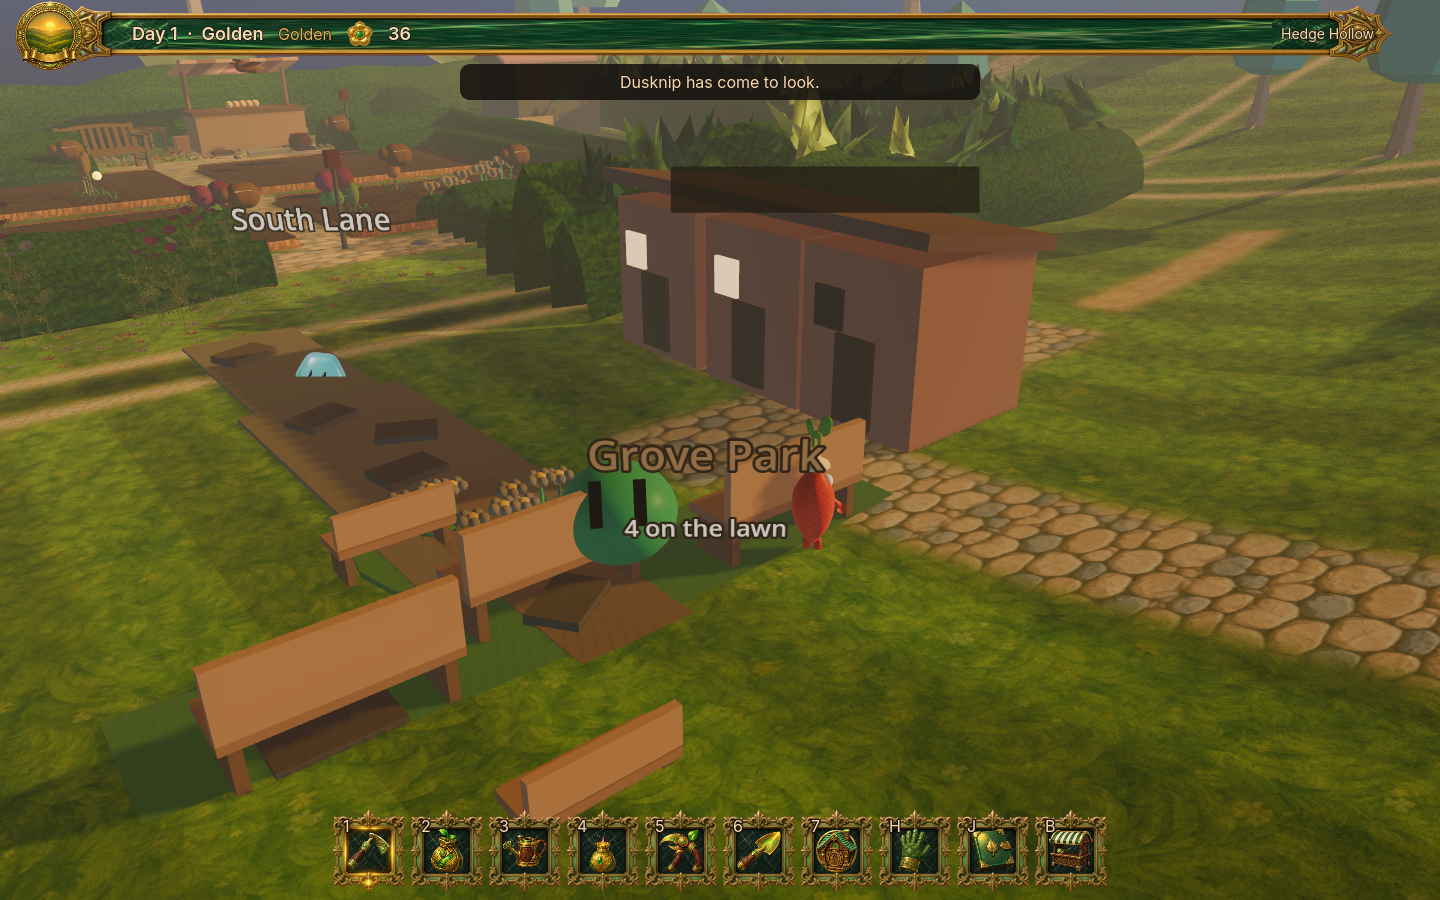
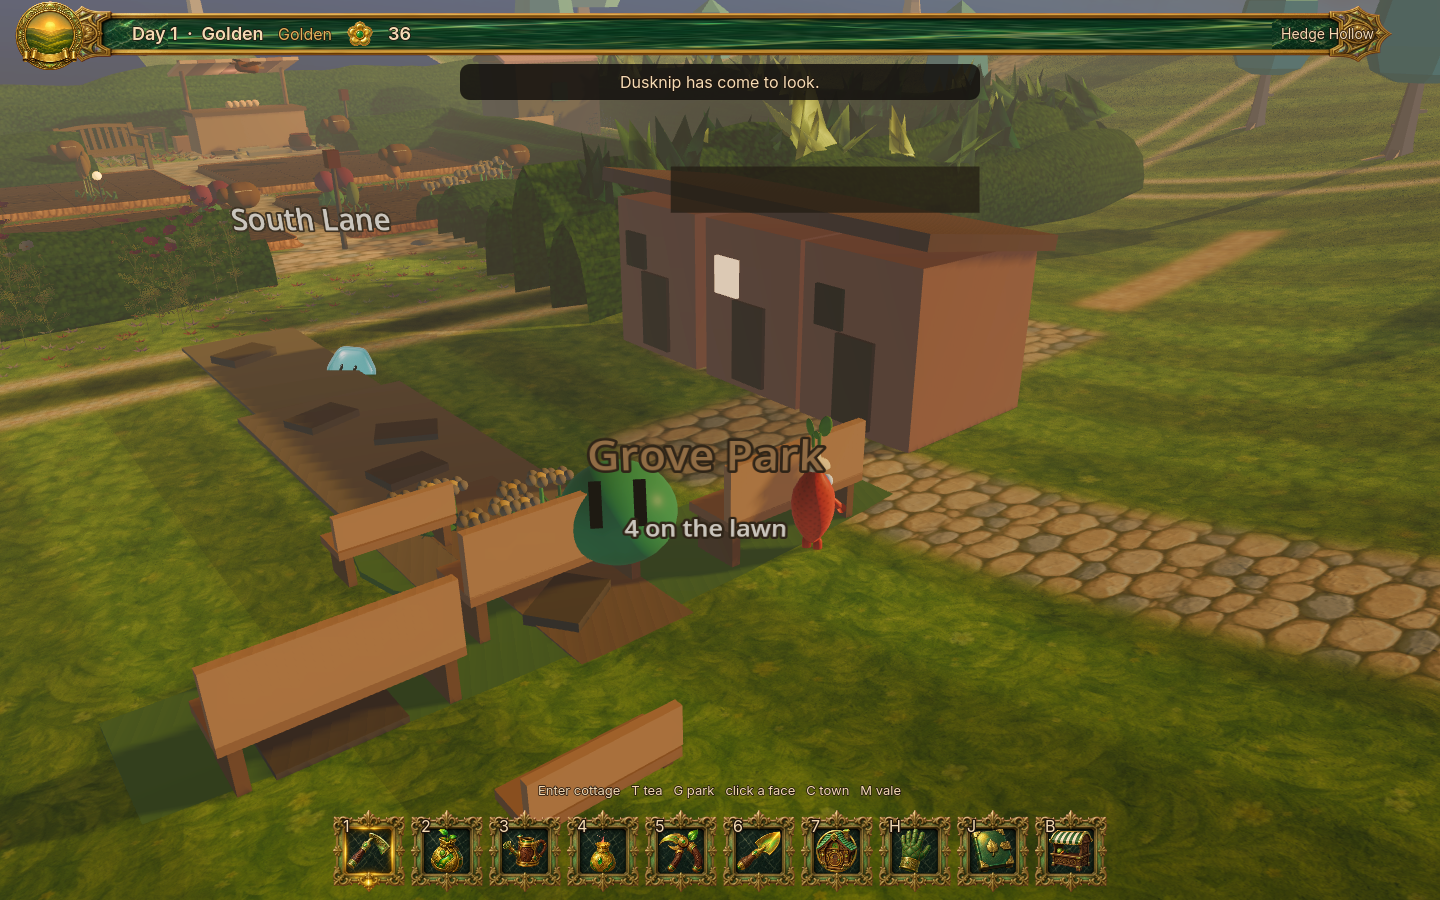
Draw a Bellhelp to the lawn when the household arrives.
Finishing the walk from the cottage calls an existing Bellhelp onto the grass, hungry, with both eyes. The town shot quits if that jelly stays behind.

diff --git a/docs/CURRENT_STATE.md b/docs/CURRENT_STATE.md
@@ -24,7 +24,7 @@ Pass 2 from `petal/08-integration` is in this tree: inspect snack, pouch feed, h
 Approved jelly cut-outs (`assets/art/images/PETAL-08-101/`) are the resting card. Hunger, a grab, a poke, or a throw shows a shaded gel icon: one body, two black vertical eyes, a small highlight. The eyes stay unshaded so the sun does not grey them out. The icon tips toward the camera.
 Sign-off CAM_06 still stages its own `SignoffJelly` card.
 Grove Park, once Nessa files it, is a lawn with benches and one worn walk from the lawn to the hedge gate. Lumen and Bram walk through that gate to the grass and stay there. `grove_park.active` stays false.
-When the road rumour is filed, six cottages stand on South Lane between the gate and the lawn. Occupied houses light a window. If the camera is near the gate, the first household (a tomato folk, surname from the lane record) stands at that door. Enter, while the camera is near that cottage, steps into the kitchen. A cup on the table holds hedge tea when the kettle has a pot or a crate of it. T drinks one serving and the cup empties when that was the last. G, once Grove Park is filed, walks that household from the cottage door, through the gate, onto the lawn. G again walks them home through the gate. The lawn spot survives save and load. While they stand on the grass, the Grove Park count includes them and their cottage window goes dark. The window lights again when they are at the door. A hungry Bellhelp can stand on that same lawn with both black eyes still showing. The same name is used in the kitchen, on the path, and on the place page. Esc steps back out. The place page says where they are: kitchen, walking, lawn, or cottage door. After a sip it also keeps “drank the hedge tea,” including across save and load. The bottom hint reads Enter cottage, T tea, G park. Clicking the household says the tea line. Farther houses stay counts. `grove_park.active` stays false.
+When the road rumour is filed, six cottages stand on South Lane between the gate and the lawn. Occupied houses light a window. If the camera is near the gate, the first household (a tomato folk, surname from the lane record) stands at that door. Enter, while the camera is near that cottage, steps into the kitchen. A cup on the table holds hedge tea when the kettle has a pot or a crate of it. T drinks one serving and the cup empties when that was the last. G, once Grove Park is filed, walks that household from the cottage door, through the gate, onto the lawn. G again walks them home through the gate. The lawn spot survives save and load. While they stand on the grass, the Grove Park count includes them and their cottage window goes dark. The window lights again when they are at the door. Arriving on the lawn draws an existing Bellhelp to the grass, hungry, with both black eyes still showing. The same name is used in the kitchen, on the path, and on the place page. Esc steps back out. The place page says where they are: kitchen, walking, lawn, or cottage door. After a sip it also keeps “drank the hedge tea,” including across save and load. The bottom hint reads Enter cottage, T tea, G park. Clicking the household says the tea line. Farther houses stay counts. `grove_park.active` stays false.
 
 ## ACTIVE AGENTS
 
@@ -48,7 +48,7 @@ Executive on this branch. No other agent is writing this tree in this run.
 
 - `./tools/petal_qa.sh` → `PETAL_QA_SCRIPTS_OK` after the cottage loop.
 - `PETAL_TOWN_SHOT=1` still passes with the control hint visible.
-- `PETAL_TOWN_SHOT=1` → `PETAL_TOWN_SHOT_OK`. The shot quits if the near cottage has no body, if Enter does not open the kitchen, if the cup does not match the kettle, if the window or the cup leaves the frame, if T does not spend one tea, if the walk misses the gate or the lawn, if the walk home misses the gate or the door, if the place page loses the lawn or the door, if reload sends them home early, if the lawn sign ignores them, if the cottage window stays lit on the lawn or dark at the door, if reload forgets the tea, or if Esc leaves the room open.
+- `PETAL_TOWN_SHOT=1` → `PETAL_TOWN_SHOT_OK`. The shot quits if the near cottage has no body, if Enter does not open the kitchen, if the cup does not match the kettle, if the window or the cup leaves the frame, if T does not spend one tea, if the walk misses the gate or the lawn, if the walk home misses the gate or the door, if the place page loses the lawn or the door, if reload sends them home early, if the lawn sign ignores them, if the cottage window stays lit on the lawn or dark at the door, if arrival does not bring the jelly, if reload forgets the tea, or if Esc leaves the room open.
 - `PETAL_KETTLE_SHOT=1` → `PETAL_KETTLE_SHOT_OK`. The brew plate quits if the kettle leaves the frame.
 - `PETAL_JELLY_PLAY=1` → `JELLY_PLAY_OK`. Hungry plate shows the gel sphere and both black eyes.
 - `PETAL_RESIDENT_SHOT=1` → `PETAL_RESIDENT_SHOT_OK`. Bram, Lumen, and Bellhelp still read on the lawn.
@@ -99,7 +99,7 @@ One playable original-IP garden a person can tend, feed, and throw, reading as a
 1. Keep the resting cut-out for a fed idle jelly. The gel icon is hunger and a grab.
 2. When this suite stays green, open a PR from this garden onto `main`. Do not push `main` from the agent.
 3. Leave `grove_park.active` false until Nessa's existing filing. Do not add another east-chain stone.
-4. The lawn holds the cottage household and a hungry Bellhelp in one frame, eyes intact. The other five cottages stay closed. Moss and the other lawn records still have no body.
+4. Arriving on the lawn draws a Bellhelp to stand with the household, eyes intact. The other five cottages stay closed. Moss and the other lawn records still have no body.
 5. Cherry-pick neon status icons only if they sit on the icon and leave the eyes visible.
 
 ## DO NOT REBUILD

diff --git a/docs/CAMPAIGN_BOARD.md b/docs/CAMPAIGN_BOARD.md
@@ -9,7 +9,7 @@ Playable Hedge Hollow on `petal/09-art-rescue`, continued on `cursor/playable-je
 - Tend the four beds. Feed a jelly from a ripe plant or the pouch.
 - Grab, nuzzle, throw. A fed idle jelly shows the approved cut-out. Hunger or a grab shows a shaded gel icon with two black eyes.
 - Stall, jam, tea, journal. Vale map on M. Town page on C.
-- Grove Park opens after the road rumour and Nessa's filing. Lumen and Bram walk through the hedge gate and stay on the grass. South Lane puts six cottages on that path when the rumour is filed. A near camera stands one tomato household at the first door. Enter steps into that kitchen. T drinks one kettle tea. G walks that household through the gate to the lawn, the lawn count includes them, their cottage window goes dark while they are out, and a hungry Bellhelp can share that grass with both eyes showing. G again walks them home. The place page names where they are, keeps the tea sip after reload, and Reed’s near-row matches. Esc steps back out. The hint shows Enter, T, and G. Clicking the household says the tea line. Catalog stays `active: false`.
+- Grove Park opens after the road rumour and Nessa's filing. Lumen and Bram walk through the hedge gate and stay on the grass. South Lane puts six cottages on that path when the rumour is filed. A near camera stands one tomato household at the first door. Enter steps into that kitchen. T drinks one kettle tea. G walks that household through the gate to the lawn, the lawn count includes them, their cottage window goes dark while they are out, and arriving there draws a hungry Bellhelp onto that grass with both eyes showing. G again walks them home. The place page names where they are, keeps the tea sip after reload, and Reed’s near-row matches. Esc steps back out. The hint shows Enter, T, and G. Clicking the household says the tea line. Catalog stays `active: false`.
 
 ## NEXT
 
